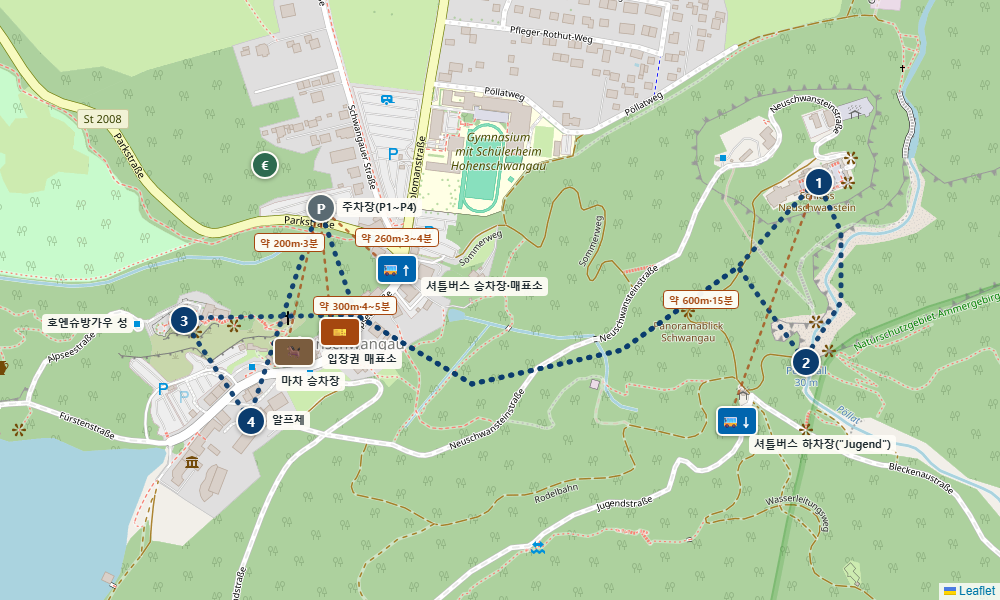
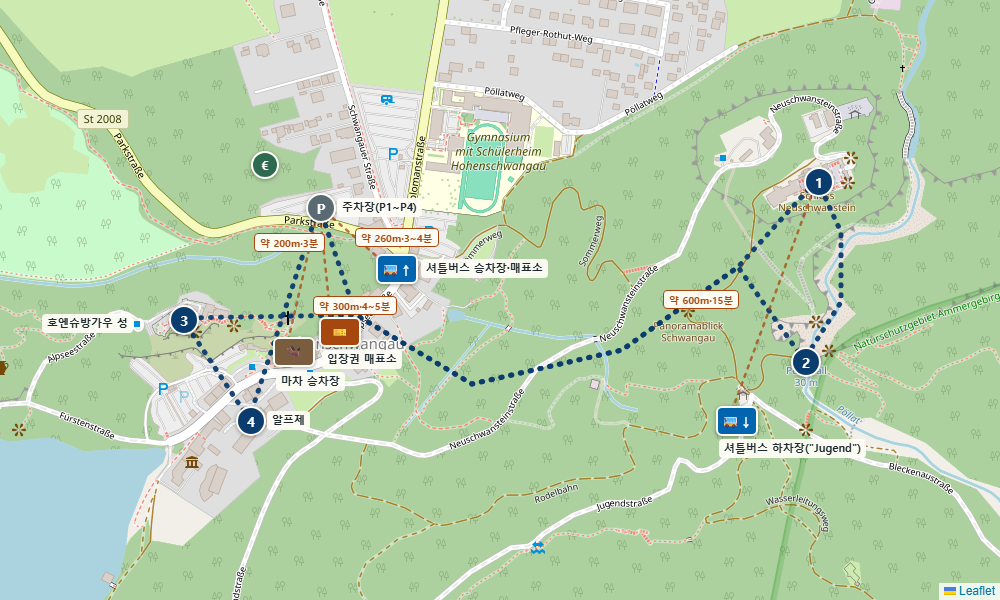
노이슈반슈타인 셔틀버스 승차장·하차장 라벨 위치 미세 조정
승차장·매표소 라벨을 박스와 같은 높이로, 하차장 라벨을 박스 바로 아래 살짝 왼쪽으로 이동

Changed region(s): [[0.403, 0.42, 0.558, 0.51], [0.713, 0.72, 0.899, 0.78]]

diff --git a/germany-roadtrip-planner.html b/germany-roadtrip-planner.html
@@ -2359,7 +2359,7 @@ document.addEventListener('DOMContentLoaded', function(){
       <a class="walk-map-link" href="https://www.google.com/maps/dir/?api=1&travelmode=walking&origin=47.5543,10.7360&destination=47.5550,10.7494&waypoints=47.5576,10.7497" target="_blank" rel="noopener">📍 Google 지도로 도보 코스 보기(링크는 편도만 표시, 왕복은 같은 길로 되짚기) · 총 약 4.7km · 도보 약 1시간 31분(오르막 40분+12분, 내리막 약 35분+알프제 4분)</a>
       <div class="route-snapshot">
         <div class="route-snapshot-media">
-          <img src="images/routes/neuschwanstein.png?v=17" alt="노이슈반슈타인 성 도보 코스 지도 스냅샷 — 입장권 매표소·셔틀버스 승하차장·마차 승차장·호엔슈방가우 성·알프제 위치 표시" loading="lazy" width="1000" height="600">
+          <img src="images/routes/neuschwanstein.png?v=18" alt="노이슈반슈타인 성 도보 코스 지도 스냅샷 — 입장권 매표소·셔틀버스 승하차장·마차 승차장·호엔슈방가우 성·알프제 위치 표시" loading="lazy" width="1000" height="600">
         </div>
         <ol class="route-steps">
         <li class="rs-p"><span class="rs-name">주차장(P1~P4)</span></li>

diff --git a/index.html b/index.html
@@ -2359,7 +2359,7 @@ document.addEventListener('DOMContentLoaded', function(){
       <a class="walk-map-link" href="https://www.google.com/maps/dir/?api=1&travelmode=walking&origin=47.5543,10.7360&destination=47.5550,10.7494&waypoints=47.5576,10.7497" target="_blank" rel="noopener">📍 Google 지도로 도보 코스 보기(링크는 편도만 표시, 왕복은 같은 길로 되짚기) · 총 약 4.7km · 도보 약 1시간 31분(오르막 40분+12분, 내리막 약 35분+알프제 4분)</a>
       <div class="route-snapshot">
         <div class="route-snapshot-media">
-          <img src="images/routes/neuschwanstein.png?v=17" alt="노이슈반슈타인 성 도보 코스 지도 스냅샷 — 입장권 매표소·셔틀버스 승하차장·마차 승차장·호엔슈방가우 성·알프제 위치 표시" loading="lazy" width="1000" height="600">
+          <img src="images/routes/neuschwanstein.png?v=18" alt="노이슈반슈타인 성 도보 코스 지도 스냅샷 — 입장권 매표소·셔틀버스 승하차장·마차 승차장·호엔슈방가우 성·알프제 위치 표시" loading="lazy" width="1000" height="600">
         </div>
         <ol class="route-steps">
         <li class="rs-p"><span class="rs-name">주차장(P1~P4)</span></li>
